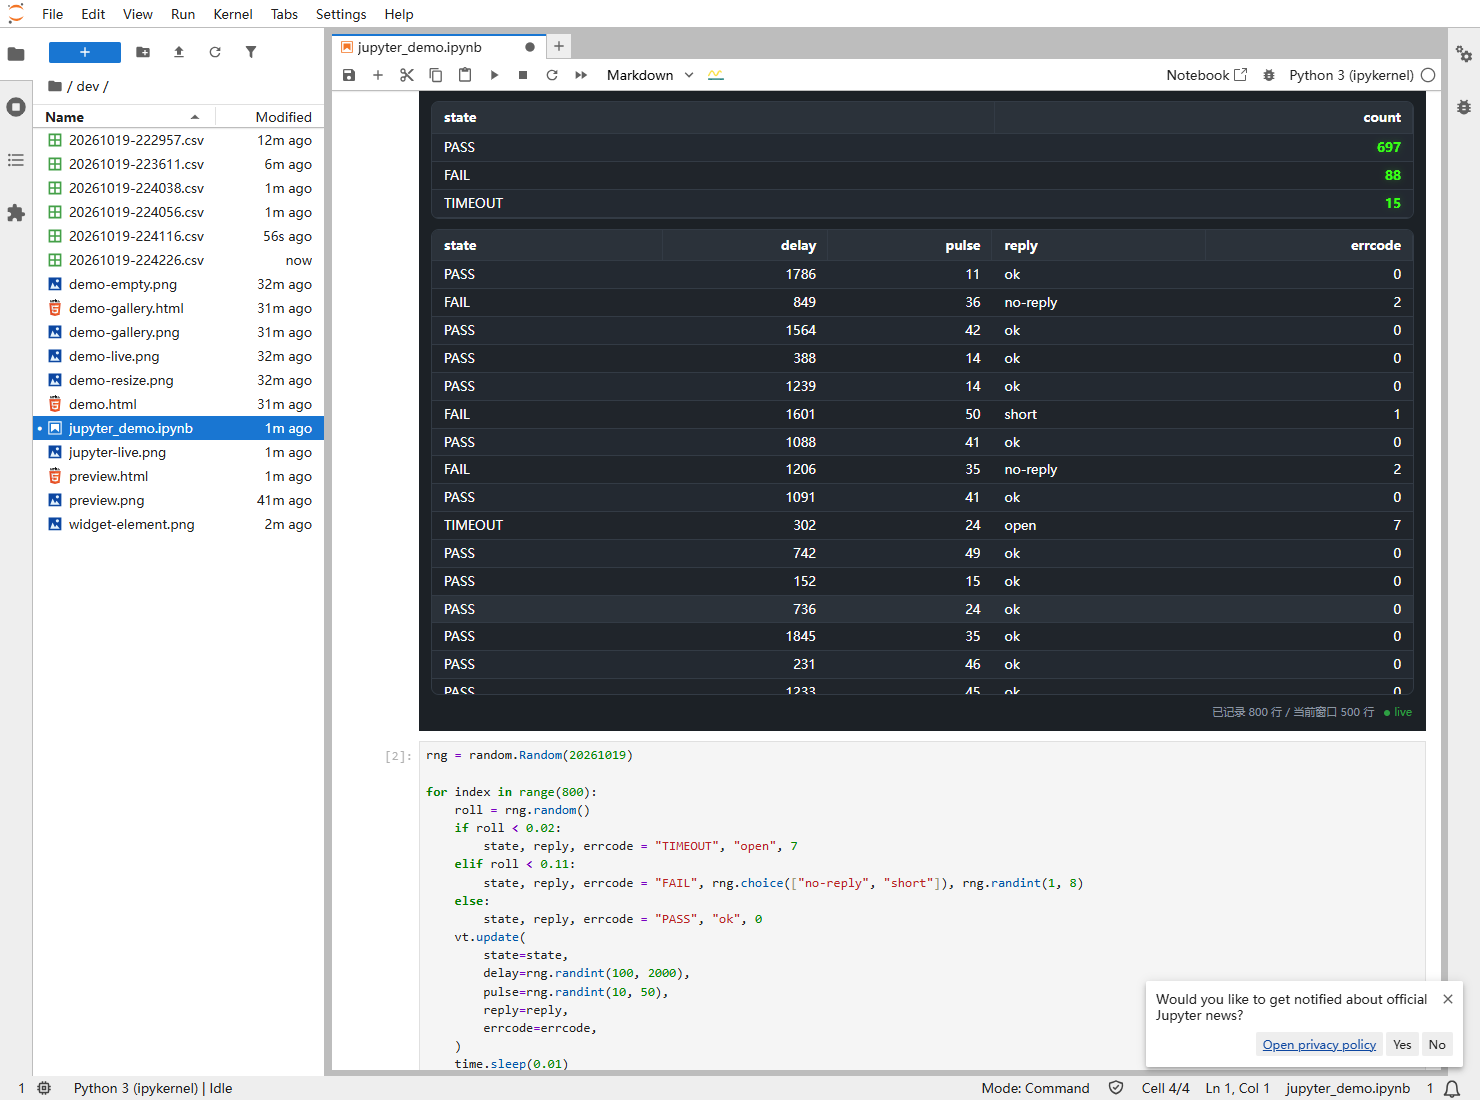
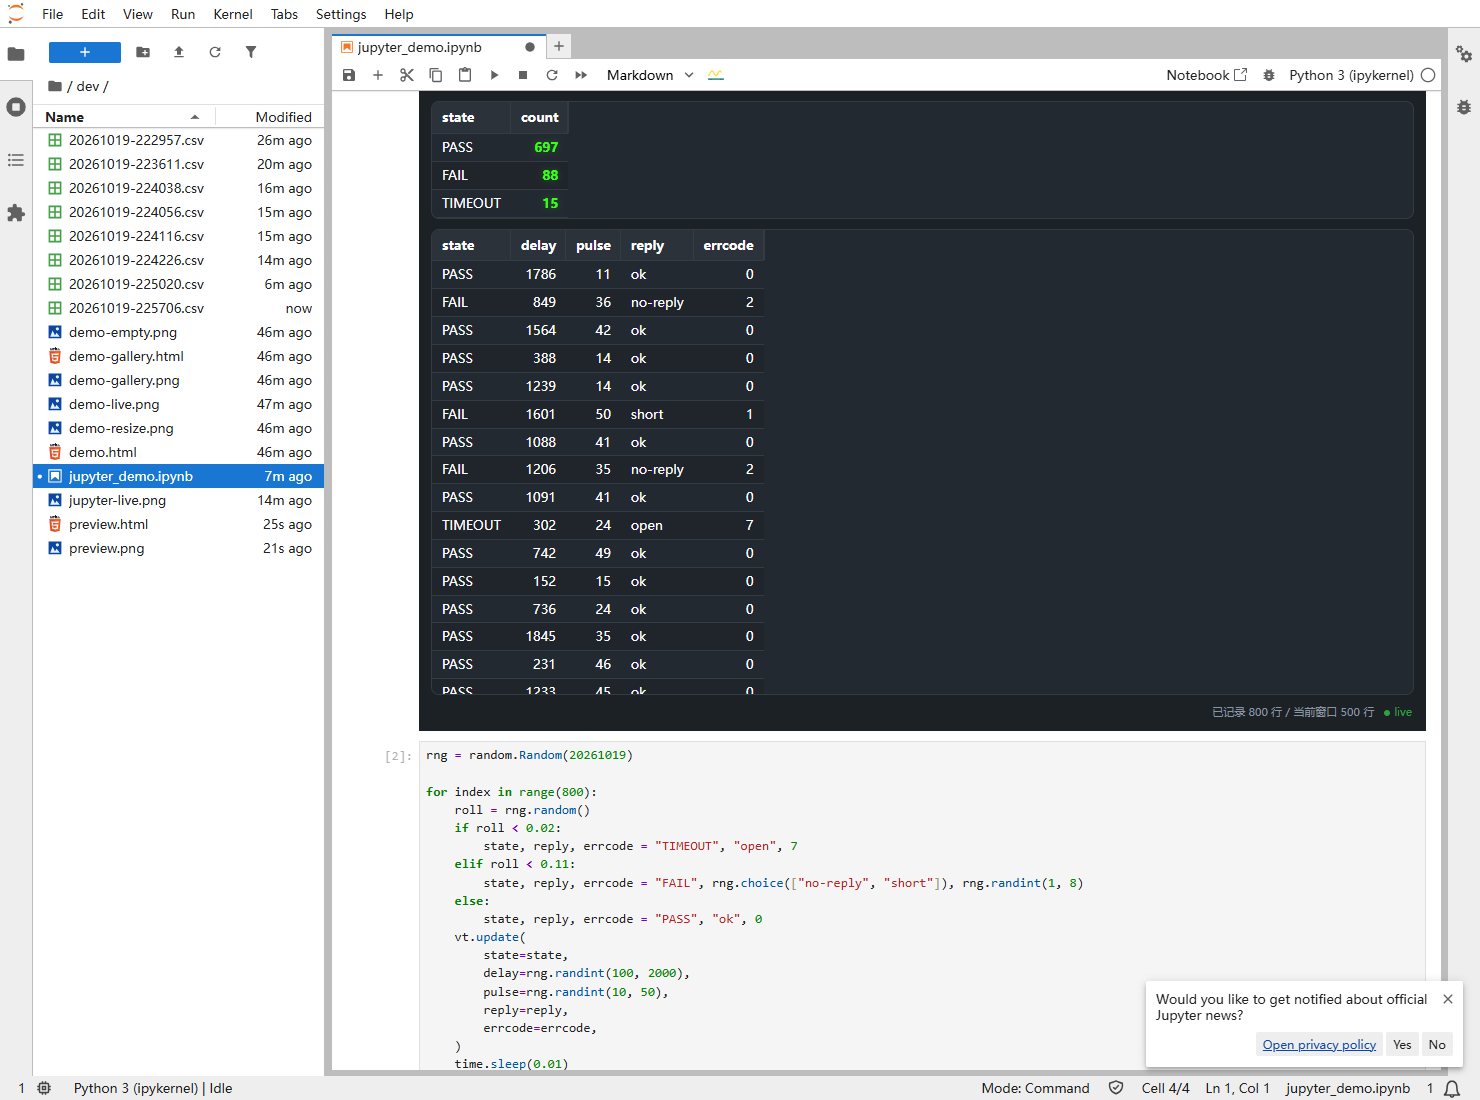
feat: compact content-sized columns (state/count adjacent) with draggable dividers

diff --git a/dev/preview.html b/dev/preview.html
@@ -111,7 +111,10 @@
 .vvv-table {
   border-collapse: collapse;
   font-variant-numeric: tabular-nums;
-  width: 100%;
+  /* Compact by default: columns hug their content instead of being stretched
+     across the pane (FaultViz-like). Drag a header divider to fine-tune. */
+  width: max-content;
+  min-width: 0;
 }
 
 /* Explicit widths (after the user drags a divider) switch to fixed layout. */
@@ -125,7 +128,7 @@
   border-bottom: 1px solid var(--vvv-border);
   color: var(--vvv-fg);
   font-weight: 600;
-  padding: 6px 12px;
+  padding: 6px 10px;
   position: sticky;
   text-align: left;
   top: 0;
@@ -172,7 +175,7 @@
   color: var(--vvv-fg);
   max-width: 480px;
   overflow: hidden;
-  padding: 4px 12px;
+  padding: 4px 10px;
   text-align: left;
   text-overflow: ellipsis;
   white-space: nowrap;

diff --git a/src/viewviewview/static/styles.css b/src/viewviewview/static/styles.css
@@ -67,7 +67,10 @@
 .vvv-table {
   border-collapse: collapse;
   font-variant-numeric: tabular-nums;
-  width: 100%;
+  /* Compact by default: columns hug their content instead of being stretched
+     across the pane (FaultViz-like). Drag a header divider to fine-tune. */
+  width: max-content;
+  min-width: 0;
 }
 
 /* Explicit widths (after the user drags a divider) switch to fixed layout. */
@@ -81,7 +84,7 @@
   border-bottom: 1px solid var(--vvv-border);
   color: var(--vvv-fg);
   font-weight: 600;
-  padding: 6px 12px;
+  padding: 6px 10px;
   position: sticky;
   text-align: left;
   top: 0;
@@ -128,7 +131,7 @@
   color: var(--vvv-fg);
   max-width: 480px;
   overflow: hidden;
-  padding: 4px 12px;
+  padding: 4px 10px;
   text-align: left;
   text-overflow: ellipsis;
   white-space: nowrap;

diff --git a/docs/ARCHITECTURE.md b/docs/ARCHITECTURE.md
@@ -19,6 +19,7 @@
   - D9 CSV 默认文件名 = 控件创建（实验开始）时刻：`YYYYMMDD-HHMMSS.csv`，同名冲突追加 `-1`；仍支持 `csv_path=` 手动命名（自动创建父目录）。
   - D10 视觉：深色主题；字段文字纯白 `#ffffff`，上窗计数值荧光绿 `#39ff14`（FaultViz 观感）。
   - D11 列宽可拖拽：拖动表头分隔线调整列宽；相邻两列分担增量，最后一列向右扩展表格（容器横向滚动）。宽度按表（统计表/明细表）保存在视图状态中，跨实时刷新保持；拖拽期间暂缓 payload 重绘，释放后立即补上最新快照。
+  - D12 紧凑列布局：表格默认按内容宽度排列（`width: max-content`，不再拉伸到面板整宽），上窗 `state` 与 `count` 相邻、明细各列紧贴（对齐 FaultViz 观感）；拖动表头分隔线在此基础上微调列宽。
 - 参考工具链：核心依赖仅 `anywidget`；`pygwalker`/`pandas` 仅 plot 路径使用（extras）；打包 hatchling。
 
 ## 1. 包结构与文件所有权矩阵（防并行冲突）
@@ -118,7 +119,7 @@ flush 语义：每 `flush_every` 条 pending 后自动 `flush()`；`flush()` 刷
 CSV 值类型：int/float 原样，str 原样；`state_key` 对应列值以 `str()` 强转为 key。
 
 ### 4.4 前端规格 — B 实现（Deephaven 深色基调）
-- 布局：单容器两窗。上窗“分类统计”（表头 `state 桶 | count`，高度自适应≈150px），下窗明细（schema 列，sticky 表头，斑马纹，最新行置顶）。数字等宽 `font-variant-numeric: tabular-nums`。
+- 布局：单容器两窗。表格**按内容紧凑排列**（不撑满面板，`state` 与 `count` 相邻，明细列紧贴），上窗“分类统计”（表头 `state 桶 | count`，高度自适应≈150px），下窗明细（schema 列，sticky 表头，斑马纹，最新行置顶）。数字等宽 `font-variant-numeric: tabular-nums`。
 - 主题 tokens（styles.css `:host` 变量，Deephaven 深色近似）：`--vvv-bg:#1c2126; --vvv-panel:#232931; --vvv-header:#2b323a; --vvv-row-alt:#20252b; --vvv-fg:#ffffff; --vvv-fg-dim:#8b95a1; --vvv-accent:#3d6fe0; --vvv-border:#333b45; --vvv-live:#2ea043; --vvv-count:#39ff14;`。字段文字使用纯白，上窗“计数”列使用荧光绿（`--vvv-count`）并加粗；允许微调，但保持深色、白字、荧光绿计数基调。
 - DOM 构造**只用 textContent/createElement**，禁 innerHTML（载荷字符串不可信 = 防注入）。
 - 列宽拖拽（D11）：每个 `<th>` 右侧带 8px `col-resize` 手柄；首次拖拽冻结当前列宽（`table-layout: fixed` + `<colgroup>` 像素宽度），相邻列分担增量、末列扩展表格；宽度按表存储在视图状态（`counts` / `detail`），实时重绘后自动恢复；拖拽期间挂起重绘，`pointerup` 后补最新帧。拖拽时给根节点加 `vvv-root--resizing`（shadow DOM 内锁定 `col-resize` 光标与禁止选中）。

diff --git a/docs/OPEN_QUESTIONS.md b/docs/OPEN_QUESTIONS.md
@@ -11,3 +11,4 @@
 - [x] R5 RESOLVED（所有者需求，2026-10-19）：CSV 默认文件名改为控件创建（实验开始）时刻 `YYYYMMDD-HHMMSS.csv`；`csv_path=` 手动命名保持不变并自动创建父目录。契约 D9 与 §5 已更新。
 - [x] R6 RESOLVED（所有者需求，2026-10-19）：配色为深色背景 + 纯白字段文字 + 荧光绿计数（`#39ff14`）。契约 D10 与 §4.4 已更新，前端与预览页同步。
 - [x] R7 RESOLVED（所有者需求，2026-10-19）：列宽可拖动调整——表头分隔线拖拽，相邻列分担增量、末列扩展表格；宽度跨实时刷新保持，拖拽期间暂缓重绘。契约 D11 与 §4.4 已更新。
+- [x] R8 RESOLVED（所有者需求，2026-10-19）：列间距过散——表格不再 `width:100%` 拉伸，改为按内容紧凑排列（`width:max-content`）；上窗 `state`/`count` 相邻、明细各列紧贴，分隔线继续支持拖拽微调。契约 D12 与 §4.4 已更新。
